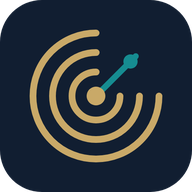
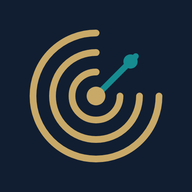
Spec: hero home and desktop layout, admin dashboard, RSS import with review queue, sources, supplied emblem
Claude-Session: https://claude.ai/code/session_01LTHfykDoENrEuRcSmBwdR4

diff --git a/index.html b/index.html
@@ -52,11 +52,15 @@ input,select,textarea{width:100%;font:inherit;padding:9px 10px;border:1px solid 
 .st.published{color:#188038}.st.pending{color:#b26a00}.st.scheduled{color:var(--blue)}
 .kp{display:grid;grid-template-columns:1fr 1fr;gap:10px;margin:8px 0}
 .kp div{background:var(--card);border:1px solid var(--ln);border-radius:12px;text-align:center;padding:12px}.kp b{display:block;font-size:1.8rem;color:var(--blue)}
-h4{margin:14px 0 6px}.bars{display:grid;grid-template-columns:70px 1fr 30px;align-items:center;gap:8px}.bars i{height:10px;background:var(--gold);border-radius:5px}
+h4{margin:14px 0 6px}.bars{display:grid;grid-template-columns:130px 1fr 30px;align-items:center;gap:8px}.bars i{height:10px;background:var(--gold);border-radius:5px}
 #ts{position:fixed;bottom:24px;left:50%;transform:translateX(-50%);background:#10131c;color:#fff;padding:8px 18px;border-radius:20px;opacity:0;pointer-events:none;z-index:20;transition:opacity .2s}
 #ts.on{opacity:1}
+.homeTop{display:grid;gap:14px;margin:10px 0}.lead{height:250px;background:var(--navy) center/cover;border-radius:16px;position:relative;overflow:hidden;color:#fff;display:flex;align-items:flex-end;cursor:pointer}.leadT{padding:18px 16px 14px;background:linear-gradient(transparent,rgba(17,30,49,.93) 65%);width:100%}.leadT h2{font-size:1.35rem;line-height:1.6;margin:6px 0 2px}.latest{background:var(--card);border:1px solid var(--ln);border-radius:16px;padding:6px 14px 10px}.latest h4{margin:8px 0;color:var(--navy);border-bottom:2px solid var(--gold);padding-bottom:4px}body.dark .latest h4{color:#fff}.lrow{padding:8px 0;border-bottom:1px solid var(--ln);cursor:pointer}.lrow:last-child{border:0}.lrow b{display:block;line-height:1.6}
+.kp{grid-template-columns:repeat(auto-fit,minmax(130px,1fr))!important}
 .grid{display:grid;grid-template-columns:1fr 1fr;gap:12px;margin:10px 0}.tile{border-top:3px solid var(--gold);position:relative;background:var(--card);border:1px solid var(--ln);border-radius:16px;padding:18px 8px 14px;display:flex;flex-direction:column;align-items:center;gap:8px;font:inherit;color:var(--tx);text-align:center}.tile svg{width:38px;height:38px;color:var(--blue)}.tile strong{font-size:1rem;line-height:1.4}.tile .nbadge{position:absolute;top:8px;left:8px;margin:0}.filea{text-decoration:none;color:var(--tx)}.filea svg{width:26px;height:26px;color:var(--blue);flex:none}.filea b{flex:1}#ft{text-align:center;color:var(--mut);padding:14px 12px;display:none}.thumb{width:100%;border-radius:12px;margin-top:8px}
 #tabs button{position:relative}.gsel{margin:6px 0 10px}.note{background:#fff4d6;color:#5a3d00;border-radius:10px;padding:8px 12px;margin:10px 0;border:1px solid #f0d28a}body.dark .note{background:#3a2f10;color:#ffe3a3;border-color:#6b5520}a.pb{display:block;text-align:center;text-decoration:none;margin:8px 0}.nbadge{display:inline-block;margin-inline-start:6px;min-width:20px;height:20px;padding:0 5px;border-radius:10px;background:var(--red);color:#fff;font:700 12px/20px sans-serif;text-align:center;font-style:normal}#tabs button.on .nbadge{background:#fff;color:var(--red)}.newchip{display:inline-block;background:var(--red);color:#fff;border-radius:6px;padding:0 8px;font-size:.75rem;font-weight:700;margin-inline-start:6px}
+@media(min-width:900px){#v{max-width:1180px}.grid{grid-template-columns:repeat(6,1fr)}.homeTop{grid-template-columns:2fr 1fr}.lead{height:400px}.leadT h2{font-size:1.9rem}.catlist{display:grid;grid-template-columns:repeat(3,1fr);gap:14px}.catlist .card{margin:0}body.adm #v{max-width:none;margin:0 250px 0 0;padding:18px 28px}body.adm .sub{position:fixed;top:62px;right:0;bottom:0;width:230px;flex-direction:column;overflow-y:auto;background:var(--navy);padding:14px;gap:6px;z-index:6}body.adm .sub button{border-radius:10px;text-align:right;background:transparent;color:#dbe3f0;border:0;padding:9px 14px}body.adm .sub button.on{background:var(--gold);color:var(--navy)}body.adm #ad{max-width:1000px}}
+
 </style></head><body>
 <header><img src="logo.png" alt=""><h1 id="hTitle">مِرصد</h1>
 <button class="ib" aria-label="بحث" onclick="srch()"><svg width="20" height="20" viewBox="0 0 24 24" fill="none" stroke="currentColor" stroke-width="2" stroke-linecap="round"><circle cx="11" cy="11" r="7"/><path d="M20 20l-4-4"/></svg></button>
@@ -78,7 +82,7 @@ const enc=s=>btoa(unescape(encodeURIComponent(s))),dec=b=>decodeURIComponent(esc
 const IC={news:'<path d="M4 5h13v14H6a2 2 0 0 1-2-2z"/><path d="M17 8h3v9a2 2 0 0 1-2 2"/><path d="M7 9h7M7 13h7"/>',bolt:'<path d="M13 2L4 14h7l-1 8 9-12h-7z"/>',pin:'<path d="M12 21s-7-6.2-7-11a7 7 0 0 1 14 0c0 4.8-7 11-7 11z"/><circle cx="12" cy="10" r="2.5"/>',egypt:'<path d="M12 4L3 20h18z"/><path d="M12 4v16"/>',gov:'<path d="M3 9l9-5 9 5"/><path d="M5 10v8M9 10v8M15 10v8M19 10v8M3 20h18"/>',globe:'<circle cx="12" cy="12" r="9"/><path d="M3 12h18M12 3c3 3 3 15 0 18M12 3c-3 3-3 15 0 18"/>',chart:'<path d="M5 20V10M11 20V4M17 20v-7M3 20h18"/>',warn:'<path d="M12 3L2 20h20z"/><path d="M12 10v5M12 17.5v.5"/>',cap:'<path d="M2 9l10-5 10 5-10 5z"/><path d="M6 11v5c0 1.5 3 3 6 3s6-1.5 6-3v-5"/>',ball:'<circle cx="12" cy="12" r="9"/><path d="M12 3v18M3 12h18M5.5 5.5c4 3 9 3 13 0M5.5 18.5c4-3 9-3 13 0"/>',chip:'<path d="M3 5h18v11H3z"/><path d="M8 20h8M12 16v4"/>',art:'<path d="M12 3a9 9 0 1 0 0 18c1.5 0 2-1 1.5-2s0-2 1.5-2h2a3 3 0 0 0 3-3 9 9 0 0 0-8-11z"/><circle cx="8" cy="11" r="1"/><circle cx="12" cy="7.5" r="1"/><circle cx="16" cy="11" r="1"/>',search:'<circle cx="11" cy="11" r="7"/><path d="M20 20l-4-4"/>',video:'<path d="M3 5h18v14H3z"/><path d="M10 9l5 3-5 3z"/>',bookmark:'<path d="M6 3h12v18l-6-4-6 4z"/>',folder:'<path d="M3 6h6l2 2h10v11H3z"/>',file:'<path d="M6 3h9l4 4v14H6z"/><path d="M14 3v5h5"/>'};
 const CI={'عاجل':'bolt','المحليات':'pin','أخبار مصر':'egypt','سياسة وبرلمان':'gov','عرب وعالم':'globe','اقتصاد وأعمال':'chart','حوادث وقضايا':'warn','تعليم':'cap','رياضة':'ball','تكنولوجيا':'chip','ثقافة وفن':'art','تحقيقات وتقارير':'search','فيديوهات':'video'};
 const icon=n=>`<svg viewBox="0 0 24 24" fill="none" stroke="currentColor" stroke-width="1.8" stroke-linecap="round" stroke-linejoin="round">${IC[n]||IC.news}</svg>`;
-const TK=[['title','اسم التطبيق','مِرصد'],['tk','شارة الأخبار العاجلة','عاجل'],['all','أيقونة كل الأخبار','كل الأخبار'],['saved','أيقونة المحفوظ','المحفوظ'],['foot','سطر أسفل الصفحة (اختياري)','نرصد المشهد.. ونصنع التأثير']].concat(CATS.map(c=>['c:'+c,'قسم: '+c,c]));
+const TK=[['title','اسم التطبيق','مِرصد'],['tk','شارة الأخبار العاجلة','عاجل'],['all','أيقونة كل الأخبار','كل الأخبار'],['saved','أيقونة المحفوظ','المحفوظ'],['foot','سطر أسفل الصفحة (اختياري)','مِرصد.. عينك على الحقيقة']].concat(CATS.map(c=>['c:'+c,'قسم: '+c,c]));
 function lbl(k){const d=(TK.find(x=>x[0]===k)||[])[2]||'';return(X.texts&&X.texts[k])||d}
 function applyTexts(){$('#hTitle').textContent=lbl('title');$('#tkl').textContent=lbl('tk');const f=lbl('foot');$('#ft').textContent=f;$('#ft').style.display=f?'block':'none'}
 const imgU=u=>u&&!/^(data:|https?:)/.test(u)?RAW+u:(u||'');
@@ -99,7 +103,7 @@ const vis=n=>(n.st==='published'||n.st==='scheduled')&&n.at<=now();
 const pub=()=>NEWS.filter(vis).sort((a,b)=>b.at-a.at);
 const gn=id=>NEWS.find(x=>x.id===id)||D.drafts.find(x=>x.id===id);
 function ticker(){const l=pub().filter(n=>n.cat==='عاجل').slice(0,5),e=$('#tk');if(!l.length){e.style.display='none';return}e.style.display='flex';tki=(tki+1)%l.length;$('#tt').textContent=l[tki].t}
-function render(){applyTexts();document.body.classList.toggle('dark',!!D.dark);document.documentElement.style.setProperty('--fs',D.fs);$('#tabs').style.display=S.admin?'none':'flex';VC=pub().length;S.admin?renderAdmin():renderHome();ticker()}
+function render(){document.body.classList.toggle('adm',!!S.admin);applyTexts();document.body.classList.toggle('dark',!!D.dark);document.documentElement.style.setProperty('--fs',D.fs);$('#tabs').style.display=S.admin?'none':'flex';VC=pub().length;S.admin?renderAdmin():renderHome();ticker()}
 async function sync(){if(Date.now()-(D.ls||0)<6e5)return;try{const r=await fetch(RAW+FILE+'?t='+Date.now(),{cache:'no-store'});if(!r.ok)return;const j=await r.json();if(!Array.isArray(j.news))return;const nx={texts:j.texts||{},folders:j.folders||[],pages:j.pages||[],plan:j.plan||[]};if(JSON.stringify([j.news,nx])===JSON.stringify([NEWS,X]))return;NEWS=j.news;X=nx;try{localStorage.setItem('rmNews',JSON.stringify(NEWS));localStorage.setItem('rmX',JSON.stringify(X))}catch(e){}if(!S.admin&&$('#sh').className!=='on')render()}catch(e){}}
 function card(n){return`<article class="card" onclick="openN('${n.id}')">${n.img?`<div class="im" style="background-image:url(${imgU(n.img)})"><i class="wm"></i></div>`:''}<div class="cb"><span class="tg ${n.cat==='عاجل'?'br':''}">${n.cat}</span>${n.at>SINCE?'<span class="newchip">جديد</span>':''}<h3>${esc(n.t)}</h3><small>${ago(n.at)}${n.gov?' · '+esc(n.gov):''}</small></div></article>`}
 function nb(c){if(c==='محفوظ')return'';const f=Math.max(D.first,D.seenC[c]||0),k=pub().filter(n=>(c==='الكل'||n.cat===c)&&n.at>f).length;return k?`<i class="nbadge">${k>9?'9+':k}</i>`:''}
@@ -110,15 +114,17 @@ function fcnt(f,since){return(f.files||[]).filter(x=>x.ts>since).length+(f.folde
 function fb(f){const k=fcnt(f,Math.max(D.first,D.seenC['f:'+f.id]||0));return k?`<i class="nbadge">${k>9?'9+':k}</i>`:''}
 function openF(id,top){if(top)S.fpath=[id];else S.fpath.push(id);S.view='fol';D.seenC['f:'+id]=now();save();render();scrollTo(0,0)}
 function curF(){let a=X.folders||[],f=null;for(const id of S.fpath){f=a.find(x=>x.id===id);if(!f)return null;a=f.folders||[]}return f}
+function hero(){const l=pub();if(!l.length)return'';const a=l[0],r=l.slice(1,5);
+ return`<div class="homeTop"><div class="lead" onclick="openN('${a.id}')" style="${a.img?`background-image:url(${imgU(a.img)})`:''}"><div class="leadT"><span class="tg ${a.cat==='عاجل'?'br':''}">${esc(a.cat)}</span><h2>${esc(a.t)}</h2><small style="color:#cfd6e4">${ago(a.at)}</small></div></div>${r.length?`<div class="latest"><h4>أحدث الأخبار</h4>${r.map(n=>`<div class="lrow" onclick="openN('${n.id}')"><b>${esc(n.t)}</b><small>${ago(n.at)}</small></div>`).join('')}</div>`:''}</div>`}
 function renderHome(){
  if(S.view==='cat')return renderCat();if(S.view==='fol')return renderFol();
- $('#v').innerHTML=`<div class="grid">${tile('news',lbl('all'),"openCat('الكل')",nb('الكل'))}${CATS.map(c=>tile(CI[c]||'news',lbl('c:'+c),`openCat('${c}')`,nb(c))).join('')}${tile('bookmark',lbl('saved'),"openCat('محفوظ')")}${(X.folders||[]).map(f=>tile('folder',f.name,`openF('${f.id}',1)`,fb(f))).join('')}</div>`}
+ $('#v').innerHTML=hero()+`<div class="grid">${tile('news',lbl('all'),"openCat('الكل')",nb('الكل'))}${CATS.map(c=>tile(CI[c]||'news',lbl('c:'+c),`openCat('${c}')`,nb(c))).join('')}${tile('bookmark',lbl('saved'),"openCat('محفوظ')")}${(X.folders||[]).map(f=>tile('folder',f.name,`openF('${f.id}',1)`,fb(f))).join('')}</div>`}
 function renderCat(){
  let l=pub();if(S.cat==='محفوظ')l=l.filter(n=>D.saved.includes(n.id));else if(S.cat!=='الكل')l=l.filter(n=>n.cat===S.cat);
  if(S.gov)l=l.filter(n=>n.gov===S.gov);
  if(S.q)l=l.filter(n=>(n.t+n.b+(n.kw||'')).includes(S.q));
  const t=S.cat==='الكل'?lbl('all'):S.cat==='محفوظ'?lbl('saved'):lbl('c:'+S.cat);
- $('#v').innerHTML=`<div class="bar"><button onclick="toHome()">رجوع</button><b style="flex:1;align-self:center">${esc(t)}</b></div><select class="gsel" onchange="S.gov=this.value;render()"><option value="">كل المحافظات</option>${GOVS.map(g=>`<option ${g===S.gov?'selected':''}>${g}</option>`).join('')}</select>`+(S.q?`<p class="mut">نتائج البحث عن "${esc(S.q)}" <button class="ob" onclick="S.q='';render()">مسح</button></p>`:'')+(l.length?l.map(card).join(''):'<p class="empty">لا توجد أخبار هنا بعد.</p>')}
+ $('#v').innerHTML=`<div class="bar"><button onclick="toHome()">رجوع</button><b style="flex:1;align-self:center">${esc(t)}</b></div><select class="gsel" onchange="S.gov=this.value;render()"><option value="">كل المحافظات</option>${GOVS.map(g=>`<option ${g===S.gov?'selected':''}>${g}</option>`).join('')}</select>`+(S.q?`<p class="mut">نتائج البحث عن "${esc(S.q)}" <button class="ob" onclick="S.q='';render()">مسح</button></p>`:'')+(l.length?`<div class="catlist">${l.map(card).join('')}</div>`:'<p class="empty">لا توجد أخبار هنا بعد.</p>')}
 function fileCard(x){const u=RAW+x.url,nw=x.ts>SINCE?'<span class="newchip">جديد</span>':'';return x.kind==='img'?`<div class="card" onclick="viewImg('${x.id}')"><div class="im" style="background-image:url(${u})"></div><div class="cb"><b>${esc(x.title)}</b>${nw}</div></div>`:`<a class="row filea" href="${u}">${icon('file')}<b>${esc(x.title)}</b>${nw}</a>`}
 function viewImg(id){const f=curF(),x=(f.files||[]).find(y=>y.id===id);if(x)sheet(`<div class="art"><div class="bar"><button onclick="closeSheet()">رجوع</button></div><h3>${esc(x.title)}</h3><img class="thumb" src="${RAW+x.url}" alt=""></div>`)}
 function renderFol(){const f=curF();if(!f){S.view='home';return renderHome()}
@@ -126,13 +132,13 @@ function renderFol(){const f=curF();if(!f){S.view='home';return renderHome()}
  $('#v').innerHTML=`<div class="bar"><button onclick="goBack()">رجوع</button><b style="flex:1;align-self:center">${esc(f.name)}</b></div>${subs.length?`<div class="grid">${subs.map(x=>tile('folder',x.name,`openF('${x.id}')`,fb(x))).join('')}</div>`:''}${fl.map(fileCard).join('')}${!subs.length&&!fl.length?'<p class="empty">المجلد فاضي.</p>':''}`}
 function srch(){sheet(`<div class="box"><h3>بحث في الأخبار</h3><input id="sq" placeholder="اكتب كلمة البحث"><button class="pb" onclick="S.q=$('#sq').value.trim();S.cat='الكل';S.view='cat';closeSheet();render()">بحث</button><button class="ob" onclick="closeSheet()">إلغاء</button></div>`);setTimeout(()=>$('#sq').focus(),50)}
 function openN(id){const n=gn(id);if(!n)return;
- sheet(`<div class="art"><div class="bar"><button onclick="closeSheet()">رجوع</button><button onclick="share('${id}')">مشاركة</button><button onclick="fav('${id}')">${D.saved.includes(id)?'إلغاء الحفظ':'حفظ'}</button></div>${n.img?`<div class="hero" style="background-image:url(${imgU(n.img)})"><i class="wm"></i></div>`:''}<span class="tg ${n.cat==='عاجل'?'br':''}">${n.cat}</span><h2>${esc(n.t)}</h2><small>${ago(n.at)}${n.gov?' · '+esc(n.gov):''}${n.au?' · '+esc(n.au):''}${n.src?' · المصدر: '+esc(n.src):''}</small>${n.note?`<div class="note"><b>تنويه / تصحيح:</b> ${esc(n.note)}</div>`:''}<p class="body">${esc(n.b).replace(/\n/g,'<br>')}</p>${/^https?:\/\//.test(n.vid||'')?`<a class="pb" href="${esc(n.vid)}">▶ شاهد الفيديو</a>`:''}${n.kw?`<p class="mut">${esc(n.kw)}</p>`:''}<div class="sig"><img src="logo.png" alt="">مِرصد</div></div>`)}
+ sheet(`<div class="art"><div class="bar"><button onclick="closeSheet()">رجوع</button><button onclick="share('${id}')">مشاركة</button><button onclick="fav('${id}')">${D.saved.includes(id)?'إلغاء الحفظ':'حفظ'}</button></div>${n.img?`<div class="hero" style="background-image:url(${imgU(n.img)})"><i class="wm"></i></div>`:''}<span class="tg ${n.cat==='عاجل'?'br':''}">${n.cat}</span><h2>${esc(n.t)}</h2><small>${ago(n.at)}${n.gov?' · '+esc(n.gov):''}${n.au?' · '+esc(n.au):''}${n.src?' · المصدر: '+esc(n.src):''}${safeU(n.srcUrl)?` · <a href="${esc(n.srcUrl)}" style="color:var(--blue)">رابط المصدر</a>`:''}</small>${n.note?`<div class="note"><b>تنويه / تصحيح:</b> ${esc(n.note)}</div>`:''}<p class="body">${esc(n.b).replace(/\n/g,'<br>')}</p>${/^https?:\/\//.test(n.vid||'')?`<a class="pb" href="${esc(n.vid)}">▶ شاهد الفيديو</a>`:''}${n.kw?`<p class="mut">${esc(n.kw)}</p>`:''}<div class="sig"><img src="logo.png" alt="">مِرصد</div></div>`)}
 function share(id){const n=gn(id),t=n.t+'\n\n'+n.b.slice(0,300)+(n.b.length>300?'...':'')+'\n\n— مِرصد';if(window.Android&&Android.share)Android.share(t);else if(navigator.share)navigator.share({text:t});else{try{navigator.clipboard.writeText(t)}catch(e){}toast('تم نسخ الخبر')}}
 function fav(id){const i=D.saved.indexOf(id);i<0?D.saved.push(id):D.saved.splice(i,1);save();closeSheet();toast(i<0?'تم الحفظ':'تم إلغاء الحفظ');render()}
 /* ===== الإدارة (بمفتاح GitHub) ===== */
 async function gh(m,path,body,tok){return fetch(API+path+(m==='GET'?'?ref='+BR+'&t='+Date.now():''),{method:m,headers:{Authorization:'Bearer '+(tok||TOK),Accept:'application/vnd.github+json'},body:body?JSON.stringify(body):undefined,cache:'no-store'})}
-function adm(){if(S.admin){S.admin=0;render()}else if(TOK){S.admin=1;S.tab='list';render()}else sheet(`<div class="box"><h3>دخول الإدارة</h3><small>الدخول بمفتاح GitHub الخاص بك. بيتخزّن على الجهاز ده بس.<br>أنشئ مفتاح من <a href="https://github.com/settings/personal-access-tokens/new" style="color:var(--blue)">هنا</a>: Only select repositories ← Mirsad ، و Contents: Read and write.</small><input id="lp" type="password" placeholder="الصق المفتاح هنا"><button class="pb" onclick="doLogin()">دخول</button><button class="ob" onclick="closeSheet()">إلغاء</button></div>`)}
-async function doLogin(){const t=$('#lp').value.trim();if(!t)return;try{const r=await gh('GET','data',null,t);if(r.status===401||r.status===403||r.status===404)return toast('المفتاح غير صحيح أو مالوش صلاحية على المستودع');TOK=t;try{localStorage.setItem('rmTok',t)}catch(e){}S.admin=1;S.tab='list';closeSheet();render()}catch(e){toast('مفيش اتصال بالإنترنت')}}
+function adm(){if(S.admin){S.admin=0;render()}else if(TOK){S.admin=1;S.tab='dash';render()}else sheet(`<div class="box"><h3>دخول الإدارة</h3><small>الدخول بمفتاح GitHub الخاص بك. بيتخزّن على الجهاز ده بس.<br>أنشئ مفتاح من <a href="https://github.com/settings/personal-access-tokens/new" style="color:var(--blue)">هنا</a>: Only select repositories ← Mirsad ، و Contents: Read and write.</small><input id="lp" type="password" placeholder="الصق المفتاح هنا"><button class="pb" onclick="doLogin()">دخول</button><button class="ob" onclick="closeSheet()">إلغاء</button></div>`)}
+async function doLogin(){const t=$('#lp').value.trim();if(!t)return;try{const r=await gh('GET','data',null,t);if(r.status===401||r.status===403||r.status===404)return toast('المفتاح غير صحيح أو مالوش صلاحية على المستودع');TOK=t;try{localStorage.setItem('rmTok',t)}catch(e){}S.admin=1;S.tab='dash';closeSheet();render()}catch(e){toast('مفيش اتصال بالإنترنت')}}
 async function mutate(fn,msg){
  for(let i=0;i<3;i++){
   const r=await gh('GET',FILE);let db={news:[]},sha;
@@ -146,19 +152,19 @@ async function mutate(fn,msg){
   throw new Error('فشل الحفظ ('+w.status+')')}
  throw new Error('تعارض في الحفظ، جرّب تاني')}
 async function upImg(du,name){const w=await gh('PUT','photos/'+name,{message:'Add photo',content:du.split(',')[1],branch:BR});if(w.status!==201&&w.status!==200)throw new Error('فشل رفع الصورة ('+w.status+')');return'photos/'+name}
-function renderAdmin(){const T=[['list','الأخبار'],['new','خبر جديد'],['fol','المجلدات'],['txt','النصوص'],['pg','الصفحات والتقويم'],['stats','إحصائيات'],['set','إعدادات']];
+function renderAdmin(){const T=[['dash','لوحة المعلومات'],['list','الأخبار'],['new','خبر جديد'],['rev','المراجعة'],['src','المصادر'],['fol','المجلدات'],['txt','النصوص'],['pg','الصفحات والتقويم'],['set','إعدادات']];
  $('#v').innerHTML=`<div class="sub" style="top:62px">${T.map(t=>`<button class="${S.tab===t[0]?'on':''}" onclick="S.tab='${t[0]}';S.edit=null;S.img='';render()">${t[1]}</button>`).join('')}</div><div id="ad"></div>`;
- ({list:aList,new:aNew,fol:aFol,txt:aTxt,pg:aPg,stats:aStats,set:aSet})[S.tab]()}
+ ({dash:aDash,list:aList,new:aNew,rev:aRev,src:aSrc,fol:aFol,txt:aTxt,pg:aPg,set:aSet})[S.tab]()}
 function aList(){const l=[...D.drafts,...NEWS].sort((a,b)=>b.at-a.at);
  $('#ad').innerHTML=l.length?l.map(n=>`<div class="row"><div><b>${esc(n.t)}</b><br><small>${n.cat} · <span class="st ${n.st}">${STL[n.st]}</span>${n.st==='draft'?' (على جهازك بس)':''}${n.st==='scheduled'?' · '+new Date(n.at).toLocaleString('ar-EG'):''}${n.fb&&n.fb.length?' · فيس بوك: في الانتظار ('+n.fb.length+')':''}</small></div><div class="acts"><button onclick="ed('${n.id}')">تعديل</button><button class="dl" onclick="del('${n.id}')">حذف</button></div></div>`).join(''):'<p class="empty">لا توجد أخبار. اضغط "خبر جديد".</p>'}
 async function del(id){if(!confirm('حذف الخبر نهائيًا؟'))return;if(D.drafts.some(x=>x.id===id)){D.drafts=D.drafts.filter(x=>x.id!==id);save();toast('تم الحذف');return render()}
  try{await mutate(db=>{db.news=db.news.filter(x=>x.id!==id)},'Delete news');toast('تم الحذف');render()}catch(e){toast(e.message)}}
 function ed(id){S.edit=id;S.tab='new';S.img=gn(id).img||'';render()}
-function aNew(){const n=S.edit?gn(S.edit):(JSON.parse(localStorage.getItem('rm_d')||'null')||{});
+function aNew(){const n=S.edit?gn(S.edit):(S.pre||JSON.parse(localStorage.getItem('rm_d')||'null')||{});
  if(!S.edit&&n.img&&!S.img)S.img=n.img;
  const fb=n.fb||[],mode=n.st==='draft'?'draft':n.later?'later':'now',remote=S.edit&&NEWS.some(x=>x.id===S.edit);
- $('#ad').innerHTML=`<div class="form" oninput="autos()"><label>العنوان</label><input id="f_t" value="${esc(n.t)}"><label>القسم</label><select id="f_c">${CATS.map(c=>`<option ${c===n.cat?'selected':''}>${c}</option>`).join('')}</select><label>المحافظة (اختياري)</label><select id="f_g"><option value="">—</option>${GOVS.map(g=>`<option ${g===n.gov?'selected':''}>${g}</option>`).join('')}</select><label>نص الخبر</label><textarea id="f_b" rows="8">${esc(n.b)}</textarea><label>الكلمات المفتاحية (افصل بفاصلة)</label><input id="f_k" value="${esc(n.kw)}"><label>رابط فيديو (اختياري)</label><input id="f_v" type="url" placeholder="https://" value="${esc(n.vid)}"><label>تنويه أو تصحيح للخبر المنشور (اختياري)</label><input id="f_n" value="${esc(n.note)}"><label>صورة</label><input type="file" id="f_i" accept="image/*" onchange="pick(this)"><div id="pv">${S.img?`<img src="${imgU(S.img)}" alt="">`:''}</div><div class="two"><div><label>المحرر / المراسل</label><input id="f_a" value="${esc(n.au)}"></div><div><label>المصدر</label><input id="f_s" value="${esc(n.src)}"></div></div><label>النشر</label><div class="modes">${[['now','الآن'],['later','جدولة'],['draft','مسودة']].filter(m=>!(remote&&m[0]==='draft')).map(m=>`<label><input type="radio" name="m" value="${m[0]}" ${m[0]===mode?'checked':''}> ${m[1]}</label>`).join('')}</div><input type="datetime-local" id="f_w" value="${n.later?toLocal(n.at):''}"><label>نشر على صفحات فيس بوك (اختياري)</label><div class="pgs">${PAGES.map(p=>`<label><input type="checkbox" class="fbp" value="${esc(p)}" ${fb.includes(p)?'checked':''}> ${esc(p)}</label>`).join('')}</div>${n.h&&n.h.length?`<label>إصدارات سابقة</label><select id="f_h">${n.h.map((h,i)=>`<option value="${i}">${new Date(h.w).toLocaleString('ar-EG')}</option>`).join('')}</select><button class="ob" onclick="restore()">استرجاع الإصدار</button>`:''}<small>المسودة بتتحفظ على جهازك بس. أي نشر بيظهر للكل ويوصلهم إشعار.</small><button class="pb" id="sv" onclick="saveNews()">حفظ</button></div>`}
-function collect(){return{t:$('#f_t').value.trim(),b:$('#f_b').value.trim(),cat:$('#f_c').value,src:$('#f_s').value.trim(),au:$('#f_a').value.trim(),gov:$('#f_g').value,kw:$('#f_k').value.trim(),vid:$('#f_v').value.trim(),note:$('#f_n').value.trim(),img:S.img||'',mode:document.querySelector('[name=m]:checked').value,when:$('#f_w').value,fb:[...document.querySelectorAll('.fbp:checked')].map(x=>x.value)}}
+ $('#ad').innerHTML=`<div class="form" oninput="autos()"><label>العنوان</label><input id="f_t" value="${esc(n.t)}"><label>القسم</label><select id="f_c">${CATS.map(c=>`<option ${c===n.cat?'selected':''}>${c}</option>`).join('')}</select><label>المحافظة (اختياري)</label><select id="f_g"><option value="">—</option>${GOVS.map(g=>`<option ${g===n.gov?'selected':''}>${g}</option>`).join('')}</select><label>نص الخبر</label><textarea id="f_b" rows="8">${esc(n.b)}</textarea><label>الكلمات المفتاحية (افصل بفاصلة)</label><input id="f_k" value="${esc(n.kw)}"><label>رابط فيديو (اختياري)</label><input id="f_v" type="url" placeholder="https://" value="${esc(n.vid)}"><label>تنويه أو تصحيح للخبر المنشور (اختياري)</label><input id="f_n" value="${esc(n.note)}"><label>صورة</label><input type="file" id="f_i" accept="image/*" onchange="pick(this)"><div id="pv">${S.img?`<img src="${imgU(S.img)}" alt="">`:''}</div><div class="two"><div><label>المحرر / المراسل</label><input id="f_a" value="${esc(n.au)}"></div><div><label>المصدر</label><input id="f_s" value="${esc(n.src)}"></div></div><label>رابط المصدر (اختياري)</label><input id="f_su" type="url" placeholder="https://" value="${esc(n.srcUrl)}"><label>النشر</label><div class="modes">${[['now','الآن'],['later','جدولة'],['draft','مسودة']].filter(m=>!(remote&&m[0]==='draft')).map(m=>`<label><input type="radio" name="m" value="${m[0]}" ${m[0]===mode?'checked':''}> ${m[1]}</label>`).join('')}</div><input type="datetime-local" id="f_w" value="${n.later?toLocal(n.at):''}"><label>نشر على صفحات فيس بوك (اختياري)</label><div class="pgs">${PAGES.map(p=>`<label><input type="checkbox" class="fbp" value="${esc(p)}" ${fb.includes(p)?'checked':''}> ${esc(p)}</label>`).join('')}</div>${n.h&&n.h.length?`<label>إصدارات سابقة</label><select id="f_h">${n.h.map((h,i)=>`<option value="${i}">${new Date(h.w).toLocaleString('ar-EG')}</option>`).join('')}</select><button class="ob" onclick="restore()">استرجاع الإصدار</button>`:''}<small>المسودة بتتحفظ على جهازك بس. أي نشر بيظهر للكل ويوصلهم إشعار.</small><button class="pb" id="sv" onclick="saveNews()">حفظ</button></div>`}
+function collect(){return{t:$('#f_t').value.trim(),b:$('#f_b').value.trim(),cat:$('#f_c').value,src:$('#f_s').value.trim(),au:$('#f_a').value.trim(),gov:$('#f_g').value,kw:$('#f_k').value.trim(),vid:$('#f_v').value.trim(),srcUrl:$('#f_su').value.trim(),note:$('#f_n').value.trim(),img:S.img||'',mode:document.querySelector('[name=m]:checked').value,when:$('#f_w').value,fb:[...document.querySelectorAll('.fbp:checked')].map(x=>x.value)}}
 function autos(){if(!S.edit)try{const c=collect();if(c.img&&c.img.length>9e5)c.img='';localStorage.setItem('rm_d',JSON.stringify(c))}catch(e){}}
 function pick(i){const f=i.files[0];if(!f)return;const r=new FileReader();r.onload=()=>{const im=new Image();im.onload=()=>{const k=Math.min(1,900/im.width),c=document.createElement('canvas');c.width=im.width*k;c.height=im.height*k;c.getContext('2d').drawImage(im,0,0,c.width,c.height);S.img=c.toDataURL('image/jpeg',.72);$('#pv').innerHTML=`<img src="${S.img}" alt="">`;autos()};im.src=r.result};r.readAsDataURL(f)}
 function restore(){const n=gn(S.edit),h=n.h[$('#f_h').value];$('#f_t').value=h.t;$('#f_b').value=h.b;toast('تم استرجاع النص. اضغط حفظ')}
@@ -169,15 +175,16 @@ async function saveNews(){const f=collect();if(!f.t||!f.b)return toast('اكتب
  if(!old&&f.mode!=='draft'&&dup(f.t)&&!confirm('يوجد خبر شبيه بهذا العنوان. تكمل النشر؟'))return;
  const id=old?old.id:'n'+now().toString(36),bt=$('#sv');bt.disabled=true;bt.textContent='جاري الحفظ...';
  try{
-  if(f.mode==='draft'){D.drafts=D.drafts.filter(x=>x.id!==id);D.drafts.unshift({id,t:f.t,b:f.b,cat:f.cat,src:f.src,au:f.au,gov:f.gov,kw:f.kw,vid:f.vid,note:f.note,img:f.img,st:'draft',at:now(),later:0,fb:f.fb,h:[]});save()}
+  if(f.mode==='draft'){D.drafts=D.drafts.filter(x=>x.id!==id);D.drafts.unshift({id,t:f.t,b:f.b,cat:f.cat,src:f.src,au:f.au,gov:f.gov,kw:f.kw,vid:f.vid,srcUrl:f.srcUrl,note:f.note,img:f.img,st:'draft',at:now(),later:0,fb:f.fb,h:[]});save()}
   else{
    let img=f.img;if(img.startsWith('data:'))img=await upImg(img,id+'-'+now().toString(36)+'.jpg');
-   await mutate(db=>{const ex=db.news.find(x=>x.id===id),data={t:f.t,b:f.b,cat:f.cat,src:f.src,au:f.au,gov:f.gov,kw:f.kw,vid:f.vid,note:f.note,img,st:later?'scheduled':'published',at:later?at:(ex&&ex.st==='published'?ex.at:now()),later:later?1:0,fb:f.fb};
+   await mutate(db=>{const ex=db.news.find(x=>x.id===id),data={t:f.t,b:f.b,cat:f.cat,src:f.src,au:f.au,gov:f.gov,kw:f.kw,vid:f.vid,srcUrl:f.srcUrl,note:f.note,img,st:later?'scheduled':'published',at:later?at:(ex&&ex.st==='published'?ex.at:now()),later:later?1:0,fb:f.fb};
     if(ex){ex.h=(ex.h||[]).concat([{t:ex.t,b:ex.b,w:now()}]).slice(-10);Object.assign(ex,data)}else db.news.unshift(Object.assign({id,h:[]},data));db.news.sort((a,b)=>b.at-a.at)},(later?'Schedule: ':'Publish: ')+f.t.slice(0,60));
-   if(D.drafts.some(x=>x.id===id)){D.drafts=D.drafts.filter(x=>x.id!==id);save()}}
+   if(D.drafts.some(x=>x.id===id)){D.drafts=D.drafts.filter(x=>x.id!==id);save()}
+   if(S.fromInbox){const fi=S.fromInbox;await mutF('review.json',{decisions:{}},x=>{x.decisions[fi]={status:'approved',newsId:id,at:now(),by:'admin'}},'Review: approved');if(AD.review)AD.review[fi]={status:'approved',newsId:id,at:now()}}}
  }catch(e){toast(e.message||'فشل الحفظ');bt.disabled=false;bt.textContent='حفظ';return}
  try{localStorage.removeItem('rm_d')}catch(e){}
- S.edit=null;S.img='';S.tab='list';
+ S.edit=null;S.img='';S.pre=null;S.fromInbox=null;S.tab='list';
  toast(({draft:'تم حفظ المسودة على جهازك',scheduled:'تمت الجدولة'})[f.mode]||'تم النشر للجميع');render()}
 function shrink(f,m){return new Promise((res,rej)=>{const r=new FileReader();r.onload=()=>{const im=new Image();im.onload=()=>{const k=Math.min(1,(m||1400)/im.width),c=document.createElement('canvas');c.width=im.width*k;c.height=im.height*k;c.getContext('2d').drawImage(im,0,0,c.width,c.height);res(c.toDataURL('image/jpeg',.78))};im.onerror=rej;im.src=r.result};r.onerror=rej;r.readAsDataURL(f)})}
 function loc(db,path){let c=db;for(const id of path){c=(c.folders||[]).find(x=>x.id===id);if(!c)throw new Error('المجلد مش موجود')}return c}
@@ -223,6 +230,33 @@ function plSave(id){const v={page:$('#p_g').value,title:$('#p_t').value.trim(),t
  pgSave(db=>{const e=id&&db.plan.find(y=>y.id===id);if(e)Object.assign(e,v);else db.plan.push(Object.assign({id:'q'+now().toString(36)},v))},'Plan: '+v.title.slice(0,40))}
 function plSt(id,st){pgSave(db=>{const e=db.plan.find(y=>y.id===id);if(e)e.status=st},'Plan status')}
 function plDel(id){if(confirm('حذف المنشور من التقويم؟'))pgSave(db=>{db.plan=db.plan.filter(y=>y.id!==id)},'Delete plan item')}
+let AD={inbox:[],review:{},sources:[]};
+const safeU=u=>/^https?:\/\//.test(u||'');
+async function rdF(f,d){const r=await gh('GET','data/'+f);if(r.status===404)return{data:d,sha:null};if(r.status!==200)throw new Error('تعذّر قراءة '+f+' ('+r.status+')');const j=await r.json();return{data:JSON.parse(dec(j.content)),sha:j.sha}}
+async function mutF(f,d,fn,msg){for(let i=0;i<3;i++){const r=await rdF(f,JSON.parse(JSON.stringify(d))),x=r.data;fn(x);const w=await gh('PUT','data/'+f,{message:msg||'Update '+f,content:enc(JSON.stringify(x)),branch:BR,sha:r.sha||undefined});if(w.status===200||w.status===201)return x;if(w.status===409||w.status===422)continue;if(w.status===401||w.status===403)throw new Error('المفتاح مالوش صلاحية الكتابة');throw new Error('فشل الحفظ ('+w.status+')')}throw new Error('تعارض في الحفظ، جرّب تاني')}
+async function loadAD(){try{const [a,b,c]=await Promise.all([rdF('inbox.json',{items:[]}),rdF('review.json',{decisions:{}}),rdF('sources.json',{sources:[]})]);AD={inbox:a.data.items||[],review:b.data.decisions||{},sources:c.data.sources||[]}}catch(e){toast(e.message)}}
+const pendQ=()=>AD.inbox.filter(i=>{const d=AD.review[i.id];return !d||d.status==='returned'}).sort((a,b)=>b.at-a.at);
+const LOADING='<p class="empty">جاري التحميل...</p>';
+async function aDash(){$('#ad').innerHTML=LOADING;await loadAD();if(S.tab!=='dash')return;
+ const p=pub(),d0=new Date().setHours(0,0,0,0),q=pendQ(),mx=Math.max(1,...CATS.map(c=>p.filter(n=>n.cat===c).length)),dcs=Object.entries(AD.review).sort((a,b)=>b[1].at-a[1].at).slice(0,8),SL={approved:'اعتُمد',rejected:'رُفض',returned:'أُرجع للتعديل'};
+ $('#ad').innerHTML=`<div class="kp"><div><b>${NEWS.length}</b>إجمالي الأخبار</div><div><b>${p.filter(n=>n.at>=d0).length}</b>منشور اليوم</div><div><b>${NEWS.filter(n=>n.st==='scheduled'&&n.at>now()).length}</b>مجدول</div><div><b>${q.length}</b>في المراجعة</div></div>
+ <h4>أحدث الأخبار في الانتظار</h4>${q.slice(0,5).map(i=>`<div class="row"><div><b>${esc(i.title)}</b><br><small>${esc(i.source)} · ${ago(i.at)}</small></div><div class="acts"><button onclick="S.tab='rev';render()">مراجعة</button></div></div>`).join('')||'<p class="empty">مفيش حاجة في الانتظار.</p>'}
+ <h4>آخر قرارات المراجعة</h4>${dcs.map(([id,v])=>{const it=AD.inbox.find(x=>x.id===id);return`<div class="row"><div><b>${esc(it?it.title:id)}</b><br><small>${SL[v.status]||v.status} · ${ago(v.at)}${v.note?' · '+esc(v.note):''}</small></div></div>`}).join('')||'<p class="empty">لا قرارات بعد.</p>'}
+ <h4>الأخبار حسب القسم</h4>${CATS.map(c=>{const k=p.filter(n=>n.cat===c).length;return`<div class="bars"><span>${c}</span><i style="width:${k/mx*100}%"></i><em>${k}</em></div>`}).join('')}`}
+async function aRev(){$('#ad').innerHTML=LOADING;await loadAD();if(S.tab==='rev')drawRev()}
+function drawRev(){const q=pendQ();
+ $('#ad').innerHTML=`<div class="bar"><b style="flex:1;align-self:center">طابور المراجعة (${q.length})</b><button onclick="importNow()">استيراد الآن</button></div><small>كل خبر مستورد لازم يتراجع ويتعتمد قبل النشر. تقدر تحرره وتنشره، أو ترفضه، أو ترجعه.</small>`+(q.map(i=>{const d=AD.review[i.id];return`<div class="card"><div class="cb"><span class="tg">${esc(i.source)}</span>${d?'<span class="newchip">مُرجَع</span>':''}<h3>${esc(i.title)}</h3><p class="mut">${esc(i.summary)}</p><small>${ago(i.at)}${safeU(i.link)?` · <a href="${esc(i.link)}" target="_blank" rel="noopener" style="color:var(--blue)">رابط المصدر</a>`:''}${d&&d.note?' · ملاحظة: '+esc(d.note):''}</small><div class="acts" style="margin-top:8px;flex-wrap:wrap"><button onclick="revEdit('${i.id}')">تحرير ونشر</button><button onclick="revRet('${i.id}')">إرجاع</button><button class="dl" onclick="revRej('${i.id}')">رفض</button></div></div></div>`}).join('')||'<p class="empty">مفيش أخبار مستوردة بتنتظر المراجعة.</p>')}
+function revEdit(id){const i=AD.inbox.find(x=>x.id===id);if(!i)return;S.fromInbox=id;S.edit=null;S.img='';S.pre={t:i.title,b:i.summary,cat:CATS.includes(i.cat)?i.cat:'أخبار مصر',src:i.source,srcUrl:safeU(i.link)?i.link:'',au:'',fb:[]};S.tab='new';render()}
+async function decide(id,st,note){try{await mutF('review.json',{decisions:{}},x=>{x.decisions[id]={status:st,note:note||'',at:now(),by:'admin'}},'Review: '+st);AD.review[id]={status:st,note:note||'',at:now()};drawRev();toast('تم')}catch(e){toast(e.message)}}
+function revRej(id){const n=prompt('سبب الرفض (اختياري)');if(n===null)return;decide(id,'rejected',n.trim())}
+function revRet(id){const n=prompt('ملاحظة للتعديل');if(n===null)return;decide(id,'returned',n.trim())}
+async function aSrc(){$('#ad').innerHTML=LOADING;await loadAD();if(S.tab==='src')drawSrc()}
+function drawSrc(){$('#ad').innerHTML=`<h4>مصادر الاستيراد (RSS)</h4>${AD.sources.map(x=>`<div class="row"><div><b>${esc(x.name)}</b> ${x.active===false?'<span class="st pending">متوقف</span>':'<span class="st published">يعمل</span>'}<br><small style="word-break:break-all">${esc(x.url)}${x.cat?' · '+esc(x.cat):''}</small></div><div class="acts"><button onclick="srcTog('${x.id}')">${x.active===false?'تشغيل':'إيقاف'}</button><button class="dl" onclick="srcDel('${x.id}')">حذف</button></div></div>`).join('')||'<p class="empty">مفيش مصادر.</p>'}<div class="two"><button class="ob" onclick="srcAdd()">+ مصدر جديد</button><button class="ob" onclick="importNow()">استيراد الآن</button></div><small>بيتفحص كل ساعة تقريباً. الأخبار بتدخل طابور المراجعة ولا بتتنشر تلقائياً، وبيتحفظ العنوان وملخص قصير ورابط المصدر بس.</small>`}
+async function srcSave(fn,msg){try{const x=await mutF('sources.json',{sources:[]},fn,msg);AD.sources=x.sources;drawSrc();toast('تم')}catch(e){toast(e.message)}}
+function srcAdd(){const n=(prompt('اسم المصدر')||'').trim();if(!n)return;const u=(prompt('رابط RSS (يبدأ بـ https://)')||'').trim();if(!safeU(u))return toast('الرابط لازم يبدأ بـ https://');const c=(prompt('القسم الافتراضي: '+CATS.join(' / '),'أخبار مصر')||'').trim();srcSave(x=>{x.sources.push({id:'s'+now().toString(36),name:n,url:u,cat:c,active:true})},'Source: '+n)}
+function srcTog(id){srcSave(x=>{const e=x.sources.find(y=>y.id===id);if(e)e.active=e.active===false}, 'Toggle source')}
+function srcDel(id){if(confirm('حذف المصدر؟'))srcSave(x=>{x.sources=x.sources.filter(y=>y.id!==id)},'Delete source')}
+async function importNow(){try{const r=await fetch(API.replace('/contents/','/actions/workflows/import-news.yml/dispatches'),{method:'POST',headers:{Authorization:'Bearer '+TOK,Accept:'application/vnd.github+json'},body:JSON.stringify({ref:BR})});toast(r.status===204?'بدأ الاستيراد، حدّث الصفحة بعد دقيقة':'محتاج صلاحية Actions: Read and write في المفتاح')}catch(e){toast('مفيش اتصال')}}
 function aStats(){const p=pub(),mx=Math.max(1,...CATS.map(c=>p.filter(n=>n.cat===c).length));
  $('#ad').innerHTML=`<div class="kp"><div><b>${p.length}</b>خبر منشور</div><div><b>${NEWS.filter(n=>n.st==='scheduled'&&n.at>now()).length}</b>مجدول</div></div><h4>الأخبار حسب القسم</h4>${CATS.map(c=>{const k=p.filter(n=>n.cat===c).length;return`<div class="bars"><span>${c}</span><i style="width:${k/mx*100}%"></i><em>${k}</em></div>`}).join('')}`}
 function fs(d){D.fs=Math.min(1.4,Math.max(.8,+(D.fs+d).toFixed(2)));save();render()}
@@ -240,5 +274,5 @@ setInterval(ticker,4000);
 if('serviceWorker' in navigator)addEventListener('load',()=>navigator.serviceWorker.register('sw.js').catch(()=>{}));
 let ip;addEventListener('beforeinstallprompt',e=>{e.preventDefault();ip=e;$('#ins').style.display='flex'});
 function inst(){if(ip)ip.prompt();$('#ins').style.display='none'}
-load();render();sync();
+load();render();sync();if(location.hash==='#admin')adm();
 </script></body></html>

diff --git a/sw.js b/sw.js
@@ -1,4 +1,4 @@
-const C='rm-v7',F=['./','index.html','logo.png','icon-192.png','icon-512.png','manifest.json'];
+const C='rm-v8',F=['./','index.html','logo.png','icon-192.png','icon-512.png','manifest.json'];
 self.addEventListener('install',e=>e.waitUntil(caches.open(C).then(c=>c.addAll(F)).then(()=>self.skipWaiting())));
 self.addEventListener('activate',e=>e.waitUntil(caches.keys().then(k=>Promise.all(k.filter(x=>x!==C).map(x=>caches.delete(x)))).then(()=>self.clients.claim())));
 self.addEventListener('fetch',e=>{if(e.request.method!=='GET')return;e.respondWith(fetch(e.request).then(r=>{const c=r.clone();caches.open(C).then(x=>x.put(e.request,c));return r}).catch(()=>caches.match(e.request).then(r=>r||caches.match('index.html'))))});

diff --git a/admin.html b/admin.html
@@ -1,0 +1,1 @@
+<!doctype html><meta charset="utf-8"><meta http-equiv="refresh" content="0;url=index.html#admin"><title>مِرصد – الإدارة</title><a href="index.html#admin">دخول الإدارة</a>

diff --git a/scripts/import_rss.py b/scripts/import_rss.py
@@ -1,0 +1,94 @@
+#!/usr/bin/env python3
+"""Imports items from approved RSS/Atom sources into data/inbox.json.
+Imported items are never published: they wait in the review queue."""
+import json, hashlib, re, html, time, sys, urllib.request
+from xml.etree import ElementTree as ET
+from email.utils import parsedate_to_datetime
+from datetime import datetime
+
+def load(p, d):
+    try:
+        with open(p, encoding='utf-8') as f:
+            return json.load(f)
+    except Exception:
+        return d
+
+def clean(x, n=400):
+    x = re.sub(r'<[^>]+>', ' ', html.unescape(x or ''))
+    x = re.sub(r'\s+', ' ', x).strip()
+    return x[:n]
+
+def safe(u):
+    u = (u or '').strip()
+    return u if re.match(r'^https?://', u) else ''
+
+def ts(s):
+    if not s:
+        return None
+    try:
+        return int(parsedate_to_datetime(s).timestamp() * 1000)
+    except Exception:
+        pass
+    try:
+        return int(datetime.fromisoformat(s.replace('Z', '+00:00')).timestamp() * 1000)
+    except Exception:
+        return None
+
+def text(e, *names):
+    for n in names:
+        x = e.find(n)
+        if x is not None and (x.text or '').strip():
+            return x.text
+    return ''
+
+def entries(root):
+    for it in root.iter('item'):
+        yield (text(it, 'title'), safe(text(it, 'link')) or safe(text(it, 'guid')),
+               text(it, 'description', '{http://purl.org/rss/1.0/modules/content/}encoded'),
+               ts(text(it, 'pubDate', '{http://purl.org/dc/elements/1.1/}date')))
+    A = '{http://www.w3.org/2005/Atom}'
+    for it in root.iter(A + 'entry'):
+        link = ''
+        for l in it.findall(A + 'link'):
+            if l.get('rel') in (None, 'alternate'):
+                link = safe(l.get('href'))
+                break
+        yield (text(it, A + 'title'), link, text(it, A + 'summary', A + 'content'),
+               ts(text(it, A + 'updated', A + 'published')))
+
+now = int(time.time() * 1000)
+sources = load('data/sources.json', {'sources': []}).get('sources', [])
+inbox = load('data/inbox.json', {'items': []})
+items = inbox.get('items', [])
+have = {i['id'] for i in items}
+links = {n.get('srcUrl') for n in load('data/news.json', {'news': []}).get('news', []) if n.get('srcUrl')}
+added = 0
+for s in sources:
+    if not s.get('active', True) or not safe(s.get('url')) and not s.get('url', '').startswith('file://'):
+        continue
+    try:
+        req = urllib.request.Request(s['url'], headers={'User-Agent': 'MirsadBot/1.0'})
+        root = ET.fromstring(urllib.request.urlopen(req, timeout=25).read())
+    except Exception as e:
+        print('skip', s.get('name'), e)
+        continue
+    n = 0
+    for title, link, desc, at in entries(root):
+        title = clean(title, 300)
+        if not title or n >= 20:
+            continue
+        iid = hashlib.sha1((link or title).encode('utf-8')).hexdigest()[:12]
+        at = at or now
+        if iid in have or (link and link in links) or at < now - 3 * 86400000:
+            continue
+        items.append({'id': iid, 'sid': s.get('id', ''), 'source': s.get('name', ''), 'cat': s.get('cat', ''),
+                      'title': title, 'summary': clean(desc), 'link': link, 'at': at, 'imported': now})
+        have.add(iid)
+        n += 1
+        added += 1
+items.sort(key=lambda i: i['at'], reverse=True)
+inbox['items'] = items[:300]
+if added:
+    with open('data/inbox.json', 'w', encoding='utf-8') as f:
+        json.dump(inbox, f, ensure_ascii=False, indent=1)
+print('added', added)
